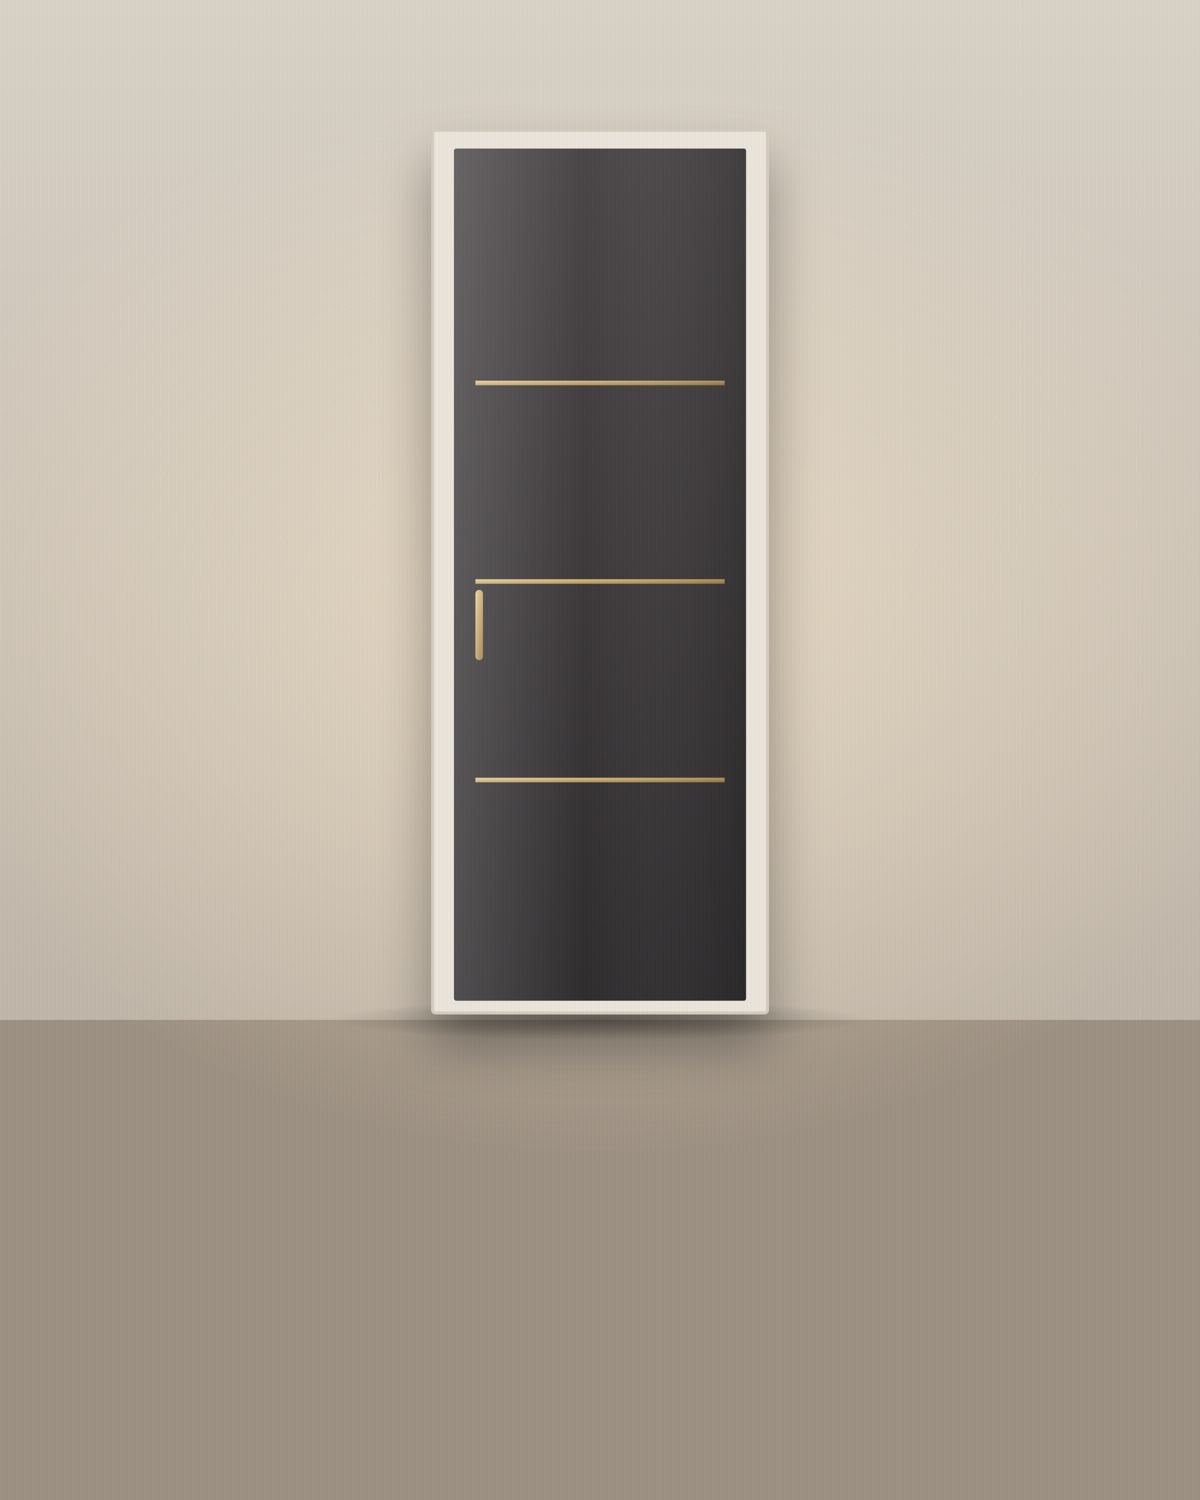
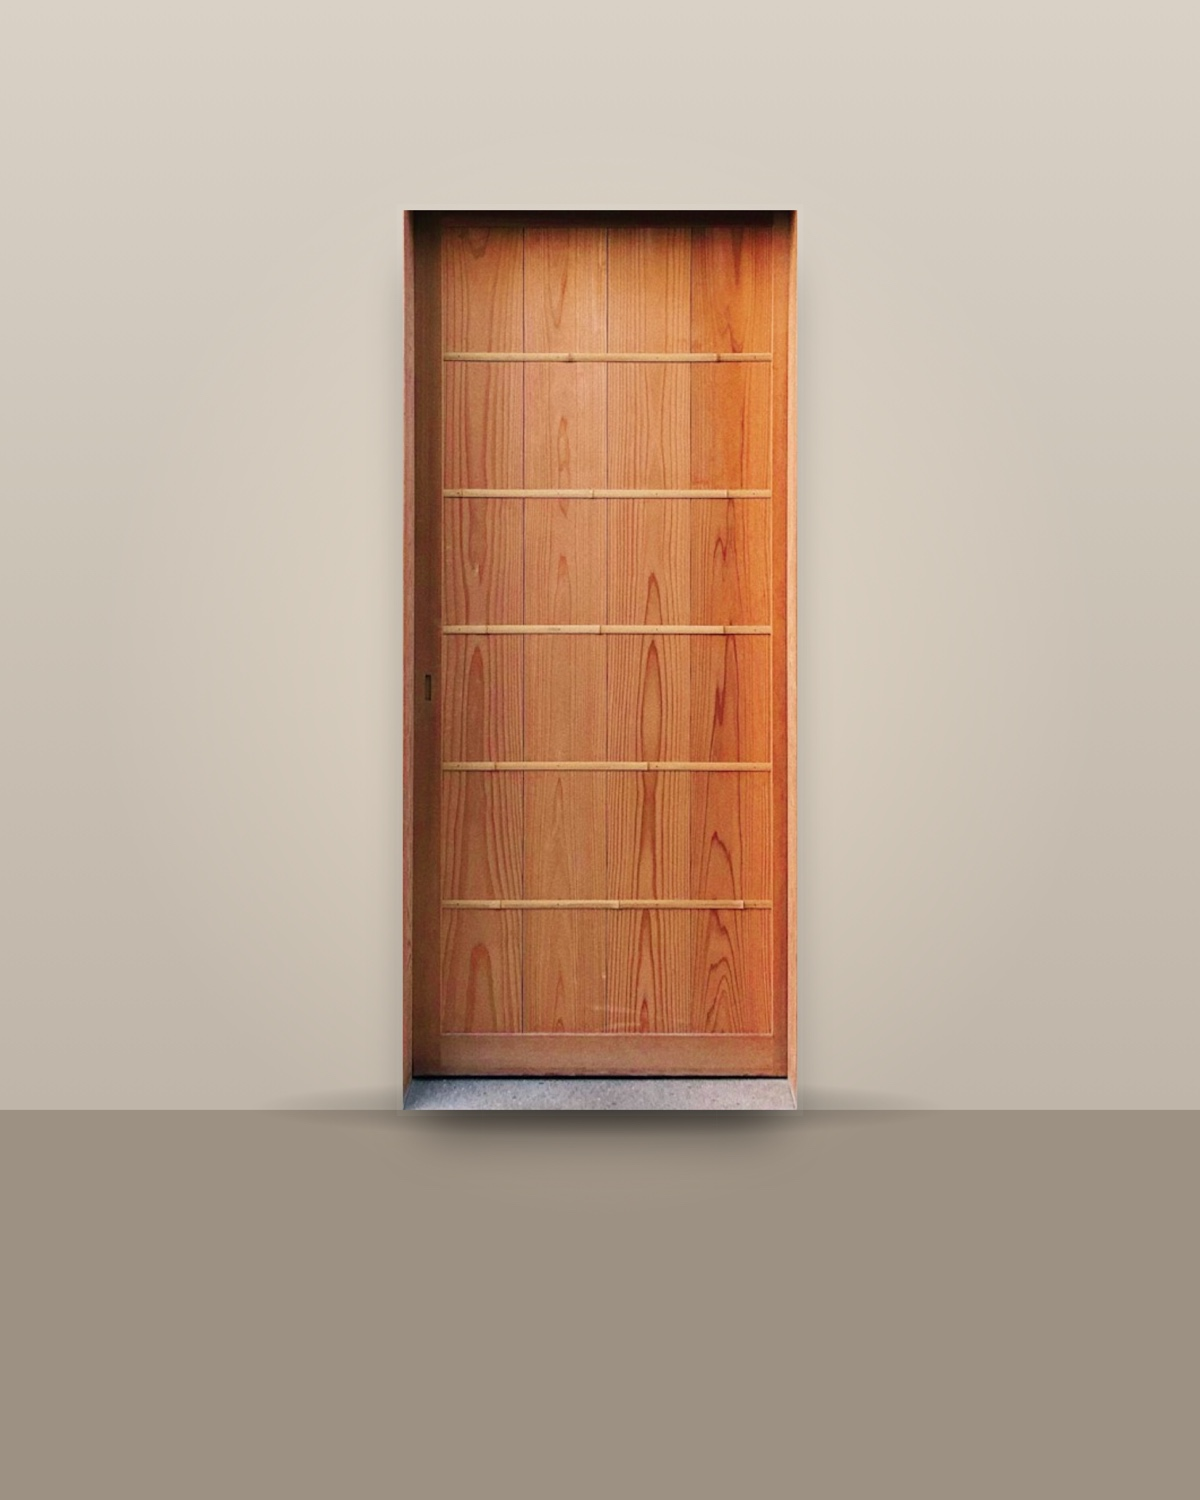
ARKA: real door photos instead of drawings

Changed region(s): [[0.0, 0.092, 1.0, 0.7667]]

diff --git a/arka/index.html b/arka/index.html
@@ -86,7 +86,7 @@ header .icons svg{width:22px;height:22px;stroke:currentColor;fill:none;stroke-wi
 /* ===== 3. Две коллекции ===== */
 .coll{position:relative;background:#143640}
 .strip{position:relative;height:46vh;overflow:hidden;display:flex;justify-content:center}
-.strip .door{width:min(16vw,170px);background:url(img/door-linea.svg) top center/100% auto no-repeat;height:100%;
+.strip .door{width:min(16vw,170px);background:url(img/door-linea.jpg) top center/100% auto no-repeat;height:100%;
   transform:translateY(-100%);transition:transform 1.6s cubic-bezier(.6,0,.2,1);filter:drop-shadow(0 30px 30px rgba(0,0,0,.4))}
 .strip.on .door{transform:translateY(0)}
 .strip::after{content:"";position:absolute;left:0;right:0;bottom:0;height:60%;background:linear-gradient(transparent,#143640)}
@@ -179,13 +179,13 @@ footer a{display:block;margin:6px 0}
     <h1>Двери, которые <i>создают</i> пространство</h1>
   </div>
   <div class="row" id="row">
-    <img src="img/door-arco.svg" alt="">
-    <img src="img/door-puro.svg" alt="">
-    <img src="img/door-classico.svg" alt="">
-    <img src="img/door-linea.svg" alt="">
-    <img src="img/door-verso.svg" alt="">
-    <img src="img/door-orbita.svg" alt="">
-    <img src="img/door-luce.svg" alt="">
+    <img src="img/door-palazzo.jpg" alt="">
+    <img src="img/door-puro.jpg" alt="">
+    <img src="img/door-classico.jpg" alt="">
+    <img src="img/door-linea.jpg" alt="">
+    <img src="img/door-rovere.jpg" alt="">
+    <img src="img/door-bianco.jpg" alt="">
+    <img src="img/door-sole.jpg" alt="">
   </div>
   <div class="scroll">ЛИСТАЙТЕ ↓</div>
 </section>
@@ -206,8 +206,8 @@ footer a{display:block;margin:6px 0}
   <div class="pair">
     <a class="card rv" href="#drum"><div class="ph" style="background-image:url(img/coll-linea.jpg);background-position:50% 60%"></div>
       <div class="lab"><small>Коллекция</small><h3>LINEA</h3><span>Смотреть коллекцию</span></div></a>
-    <a class="card rv" href="#drum"><div class="ph" style="background-image:url(img/coll-orbita.jpg);background-position:50% 60%"></div>
-      <div class="lab"><small>Коллекция</small><h3>ORBITA</h3><span>Смотреть коллекцию</span></div></a>
+    <a class="card rv" href="#drum"><div class="ph" style="background-image:url(img/coll-palazzo.jpg);background-position:50% 60%"></div>
+      <div class="lab"><small>Коллекция</small><h3>PALAZZO</h3><span>Смотреть коллекцию</span></div></a>
   </div>
 </section>
 
@@ -257,10 +257,10 @@ const io=new IntersectionObserver(es=>es.forEach(e=>{if(e.isIntersecting){e.targ
 document.querySelectorAll('.rv,#strip').forEach(el=>io.observe(el));
 
 // барабан
-const D=[['LINEA','латунные вставки'],['VERSO','вертикальные рейки'],['CLASSICO','неоклассика'],['PURO','минимализм'],
-  ['ARCO','арка со стеклом'],['ORBITA','круговой рельеф'],['INVISO','скрытый монтаж'],['LUCE','со стеклом'],['FRATTURA','арт-разлом']];
+const D=[['LINEA','массив сосны, латунные рейки'],['INVISO','скрытый монтаж под покраску'],['CLASSICO','шесть филёнок'],['PURO','шпон американского ореха'],
+  ['BIANCO','классика в белой эмали'],['ROVERE','дуб, скрытая ручка'],['SOLE','тёплый дуб, без наличника'],['PALAZZO','двустворчатая неоклассика']];
 const ring=document.getElementById('ring'),N=D.length,step=360/N,R=520;
-ring.innerHTML=D.map((d,i)=>`<figure style="transform:rotateY(${i*step}deg) translateZ(${R}px)"><img src="img/door-${d[0].toLowerCase()}.svg" alt="${d[0]}"></figure>`).join('');
+ring.innerHTML=D.map((d,i)=>`<figure style="transform:rotateY(${i*step}deg) translateZ(${R}px)"><img src="img/door-${d[0].toLowerCase()}.jpg" alt="${d[0]}"></figure>`).join('');
 const figs=[...ring.children],dn=document.getElementById('dname');let cur=0;
 function show(){ring.style.transform=`translateZ(-${R}px) rotateY(${-cur*step}deg)`;
   const k=((cur%N)+N)%N;figs.forEach((f,i)=>{const d=Math.min((i-k+N)%N,(k-i+N)%N);f.classList.toggle('far',d>1)});
